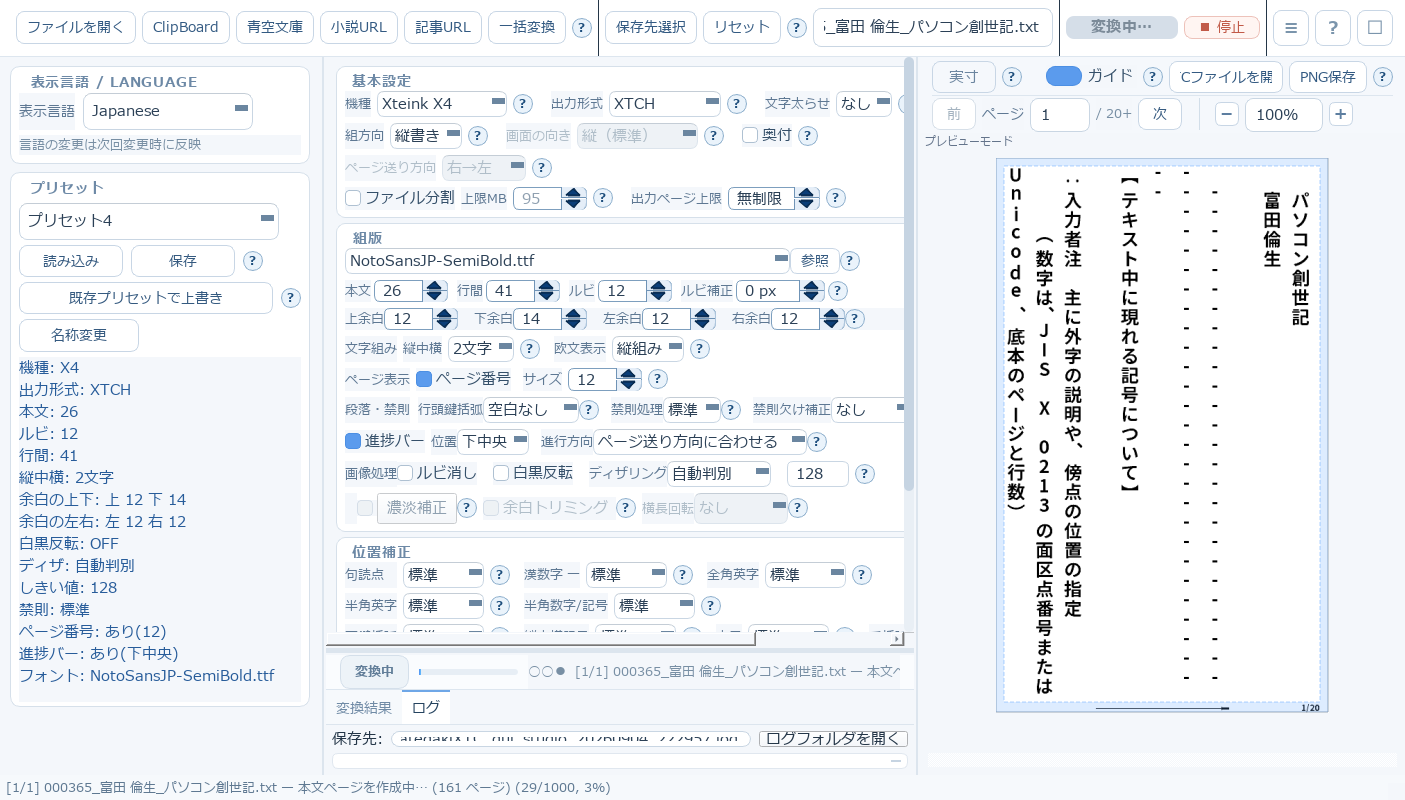
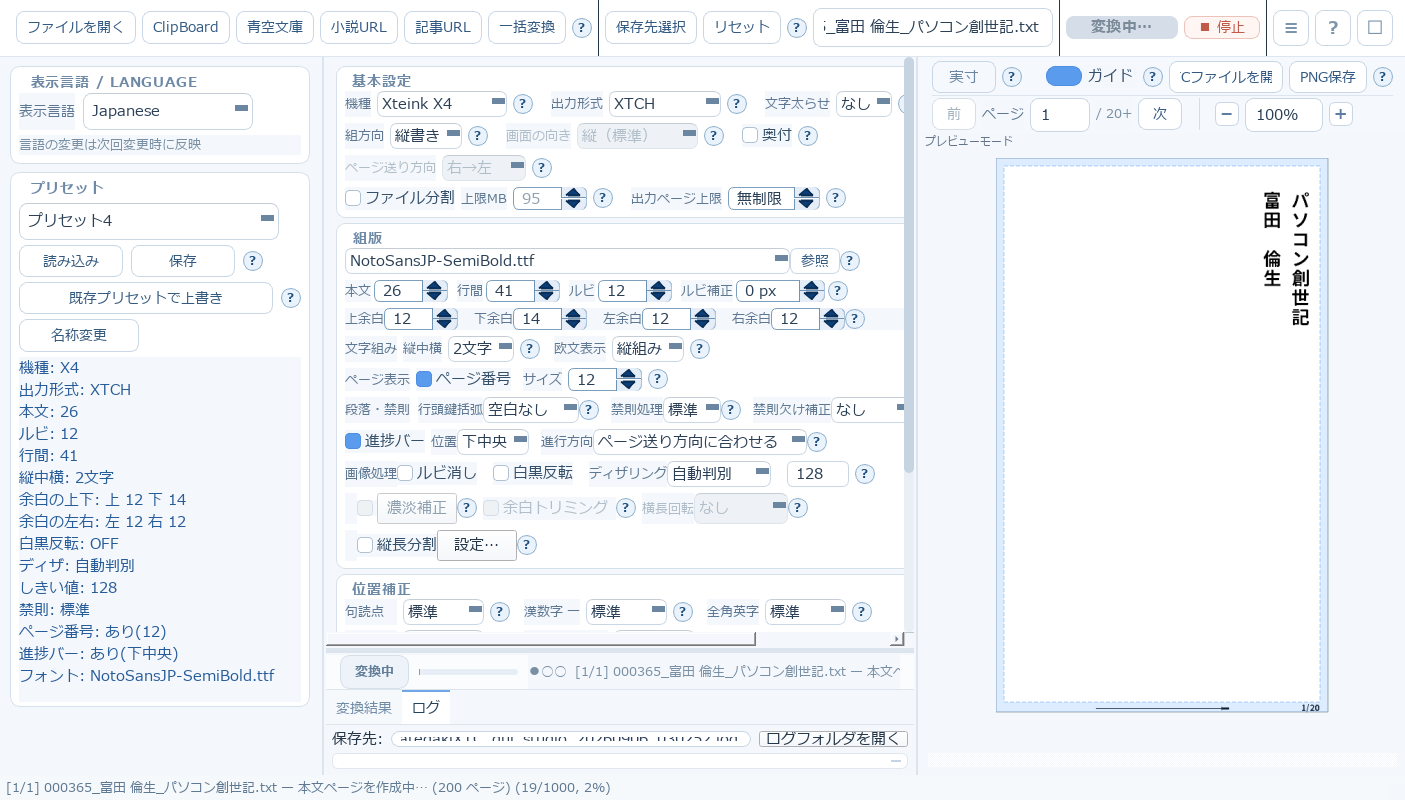
Document 縦長分割 and refresh the pictures it changed
The feature had shipped with no chapter, and the main-window screenshots
still predated it. Chapter 13 grows a section covering the dialog, what a
2:3 page becomes, how the overlap reads, and the rules that surprise people
(page numbers count the original sheet, covers are never cut, landscape
pages belong to 横長回転, six faces is the ceiling). Chapter 3's image list
points at it.

The main-window shots and the typesetting block were retaken from an
ordinary install directory, which also clears the scratch folder name that
was visible in the output path. README now names the version those pictures
actually come from.

diff --git a/docs/13-image-correction.md b/docs/13-image-correction.md
@@ -1,4 +1,4 @@
-# 13. スキャンPDF・画像の下ごしらえ（濃淡補正）
+# 13. 画像・スキャンPDFの下ごしらえ
 
 スキャンした本や資料は、文字が薄かったり背景が黄ばんでいたりすることがあります。
 「濃淡補正」は、そうしたスキャンPDF/画像の薄い文字や黄ばんだ背景を、変換前に持ち上げる機能です。
@@ -20,5 +20,53 @@
 濃淡補正は明るさ・コントラストの補正です。[3章](03-typesetting.md#画像処理)で説明した
 「余白トリミング」は、ページごとにインク領域を検出して余白を切り、実効文字サイズを引き上げる機能で、
 役割が異なります。スキャン原稿では両方を組み合わせると効果的です。
+
+## 縦長分割
+
+縦長のページを、**端末を横に倒して読む向き**に切り分ける機能です。
+1ページを複数の「面」に分け、面をめくって読みます。
+端末はページ送りしかできないため、スクロールではなくこの形にしています。
+
+「画像処理」の **縦長分割** にチェックを入れ、［設定…］で中身を決めます。
+**既定は無効**で、有効にしない限り変換結果はこれまでと変わりません。
+
+![縦長分割の設定](../images/portrait-split-dialog.png)
+
+### 設定の中身
+
+- **分割の基準**
+  - **長辺いっぱい**（既定） … 画像の幅を画面の長辺に合わせ、必要な面数を自動で決めます
+  - **面数を指定** … 面数を先に決め、そこに収まるまで縮小します。めくる回数は減りますが表示は小さくなります
+- **のりしろ** … 面をどれだけ重ねるか。少なめ／標準（既定）／多め
+- **端末の持ち方** … 右に倒す（既定）／左に倒す
+
+### 見え方
+
+一般的なマンガ原稿（縦横比2:3）だと **1ページが3面**になります。
+下は、同じページを分割しないで変換したものと、3面に分けたものです。
+
+![分割しない場合と3面に分けた場合](../images/sample-portrait-split.png)
+
+面をまたぐ吹き出しが1面目と2面目の両方に写っているのが「のりしろ」です。
+マンガのセリフが境目で切れても読めるように、面を少し重ねてあります。
+**実際ののりしろは、指定より大きくなることがあります。**
+面が等間隔になるように重なりを均すためで、指定値は下限として働きます。
+
+「面数を指定」で2面にすると、長辺の77%までしか広がりません
+（3面なら100%）。めくる回数と大きさのどちらを取るかで選んでください。
+
+### 決まりごと
+
+- **ページ番号は、元の画像1枚を1ページとして数えます。** 面ごとには進みません。
+  目次に印刷されたページ番号と突き合わせられるようにするためです
+- **表紙は分割しません**
+- **横長のページは対象外**です。そちらは「横長回転」が扱います
+- 縦に非常に長い画像でも **6面が上限**です。気づかないうちにページ数が跳ね上がるのを防ぎます
+- 右ペインのプレビューも、実際の変換と同じ面数・同じページ番号で表示されます
+
+### 対象になるファイル
+
+画像アーカイブ（ZIP / CBZ / CBR / RAR）、PDF、単体の画像ファイル、
+[フォルダの一括変換](12-folder-batch.md)。テキストやEPUBは対象外です。
 
 → [14. XTCツールで確認・編集する](14-xtc-tools.md)

diff --git a/docs/03-typesetting.md b/docs/03-typesetting.md
@@ -76,6 +76,8 @@
   白紙ページなどインク領域を検出できないページは、そのまま変換します
 - **横長回転** … 横長（幅＞高さ）のページだけを90度回転し、縦画面いっぱいに表示します。
   「右に倒す」「左に倒す」は端末を倒して読むときの持ち方です。縦長・正方形のページはそのまま変換します
+- **縦長分割** … 縦長のページを、端末を横に倒して読む向きに切り分けます。横長回転とは対象が
+  逆で、こちらは縦長のページだけを扱います（→ [13章](13-image-correction.md#縦長分割)）
 
 ## Markdown専用設定（横書き）
 
